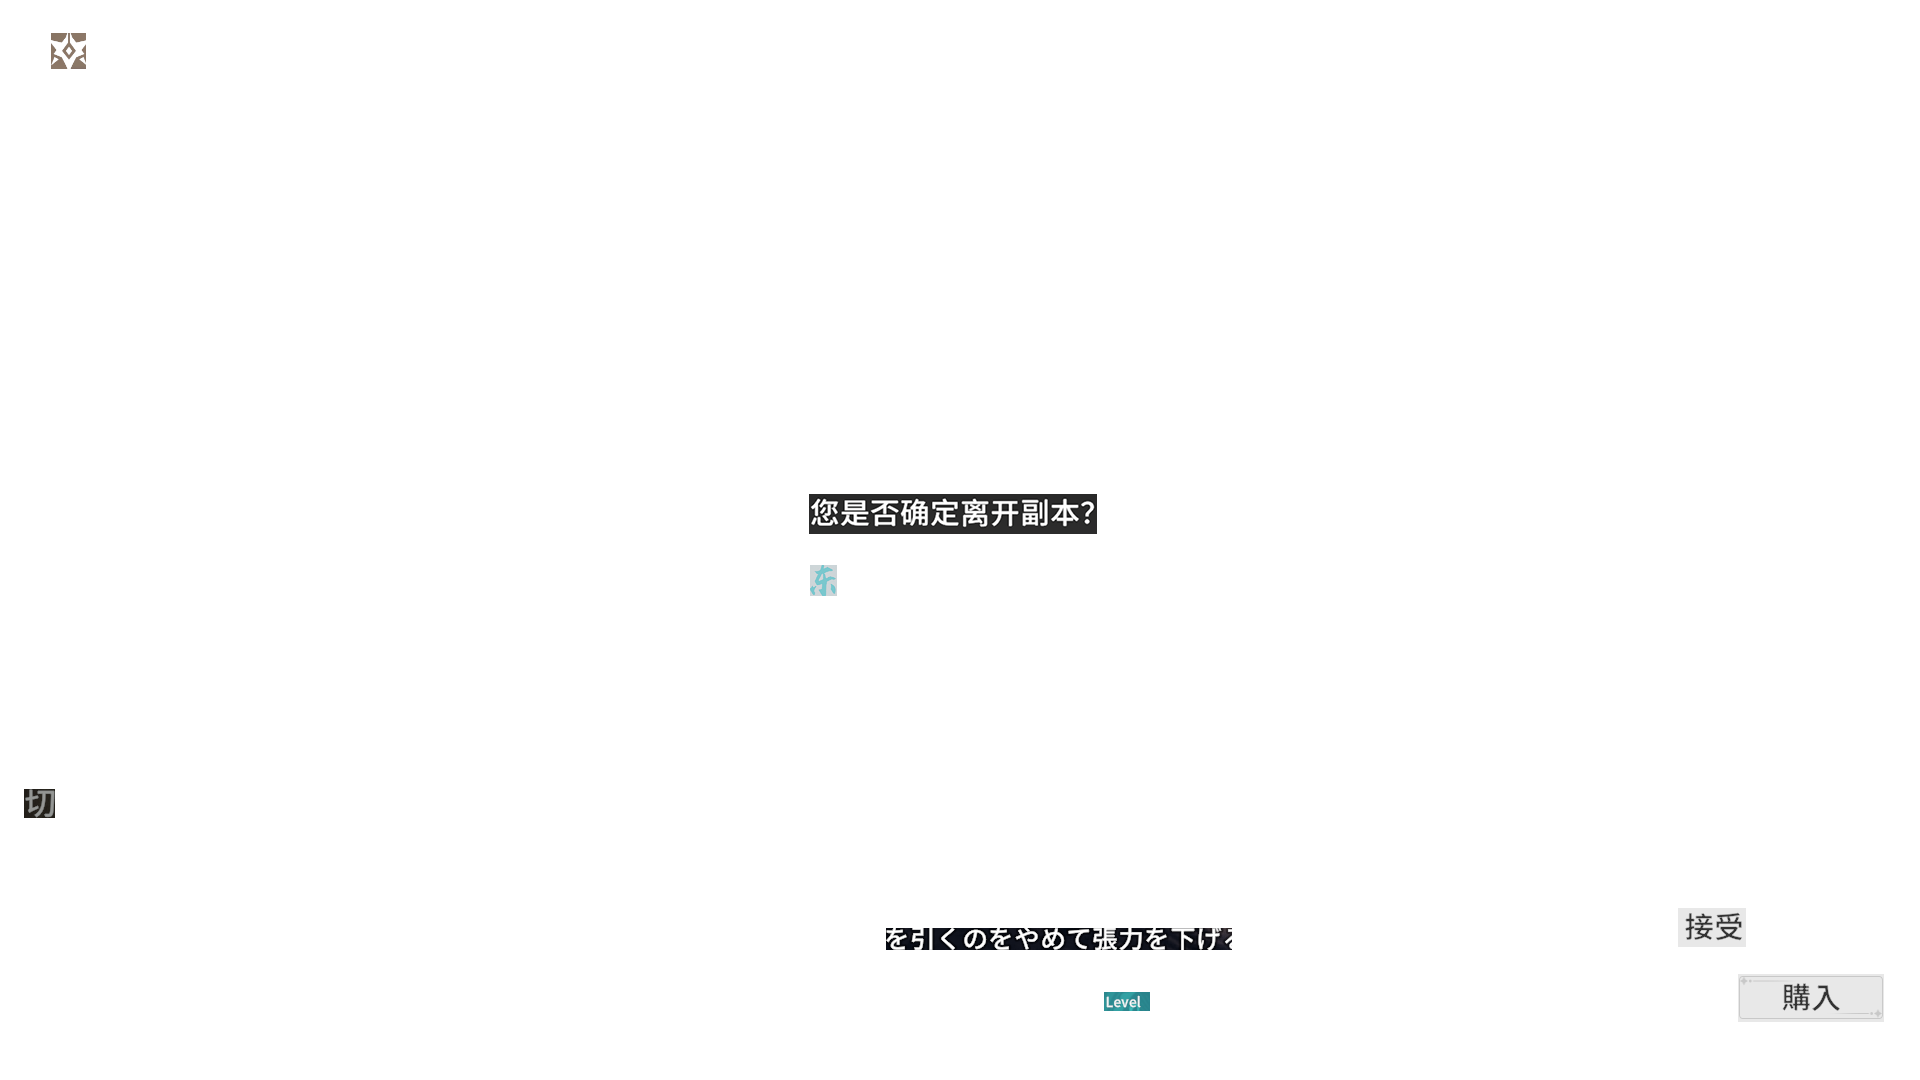
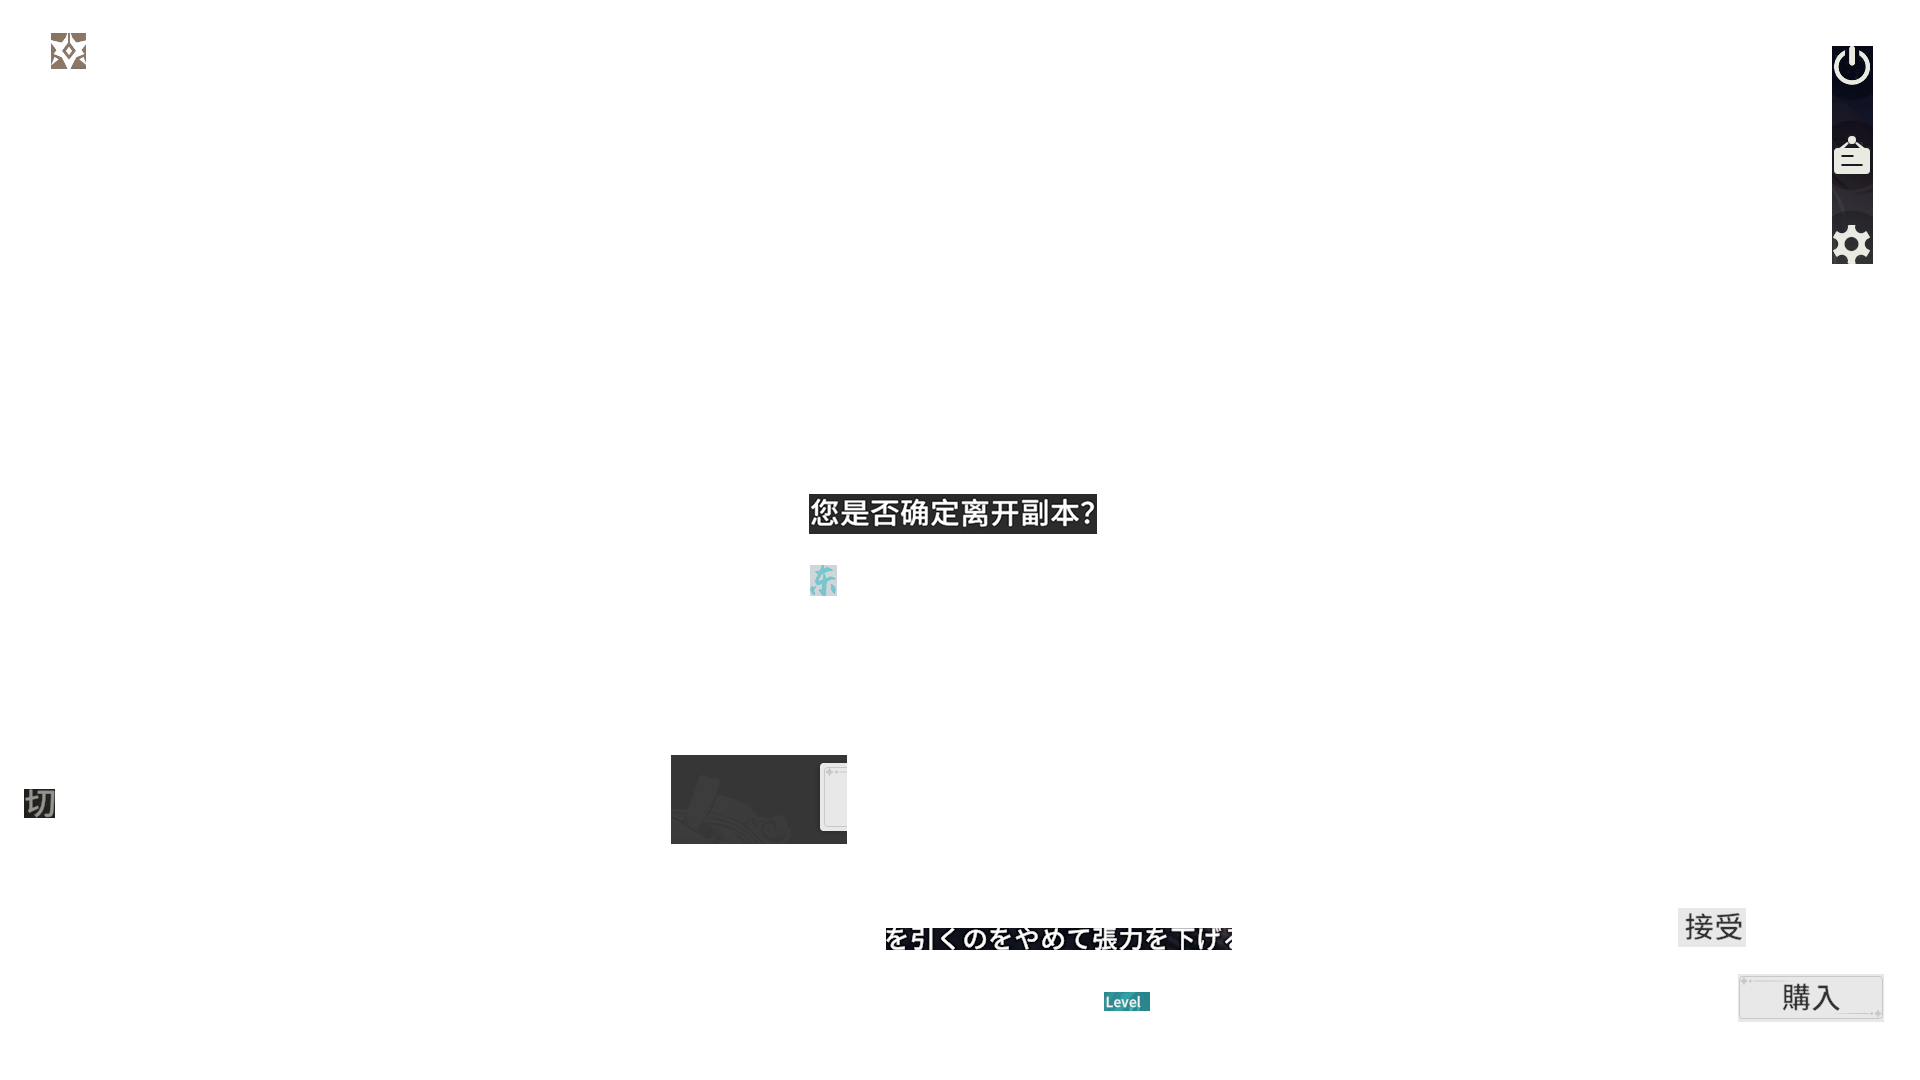
副本任务断线重连

Changed region(s): [[0.9375, 0.0306, 1.0, 0.2444], [0.3438, 0.6722, 0.4375, 0.7944]]

diff --git a/src/tasks/DungeonTasks/DungeonTaskBase.py b/src/tasks/DungeonTasks/DungeonTaskBase.py
@@ -318,13 +318,22 @@ class DungeonTaskBase(SRTask):
                 handled = True
                 needs_confirmation = True
 
-            elif self.calculate_color_percentage({'r': (250, 255), 'g': (250, 255), 'b': (250, 255)}, self.get_box_by_name('close')) > 0.15:
-                self.send_key('esc')
+            elif self.find_one('dungeon_scene_icon'):
+                self.send_key('p')
                 handled = True
                 needs_confirmation = True
 
-            elif self.find_one('dungeon_scene_icon'):
-                self.send_key('p')
+            elif self.find_one('single_confirm'):
+                self.click(0.5, 0.74)
+
+            elif self.find_one('anchor_login'):
+                self.click(0.5, 0.83)
+
+            elif self.find_one('anchor_select_chara'):
+                self.click(0.86, 0.88)
+
+            elif self.calculate_color_percentage({'r': (250, 255), 'g': (250, 255), 'b': (250, 255)}, self.get_box_by_name('close')) > 0.15:
+                self.send_key('esc')
                 handled = True
                 needs_confirmation = True
 
